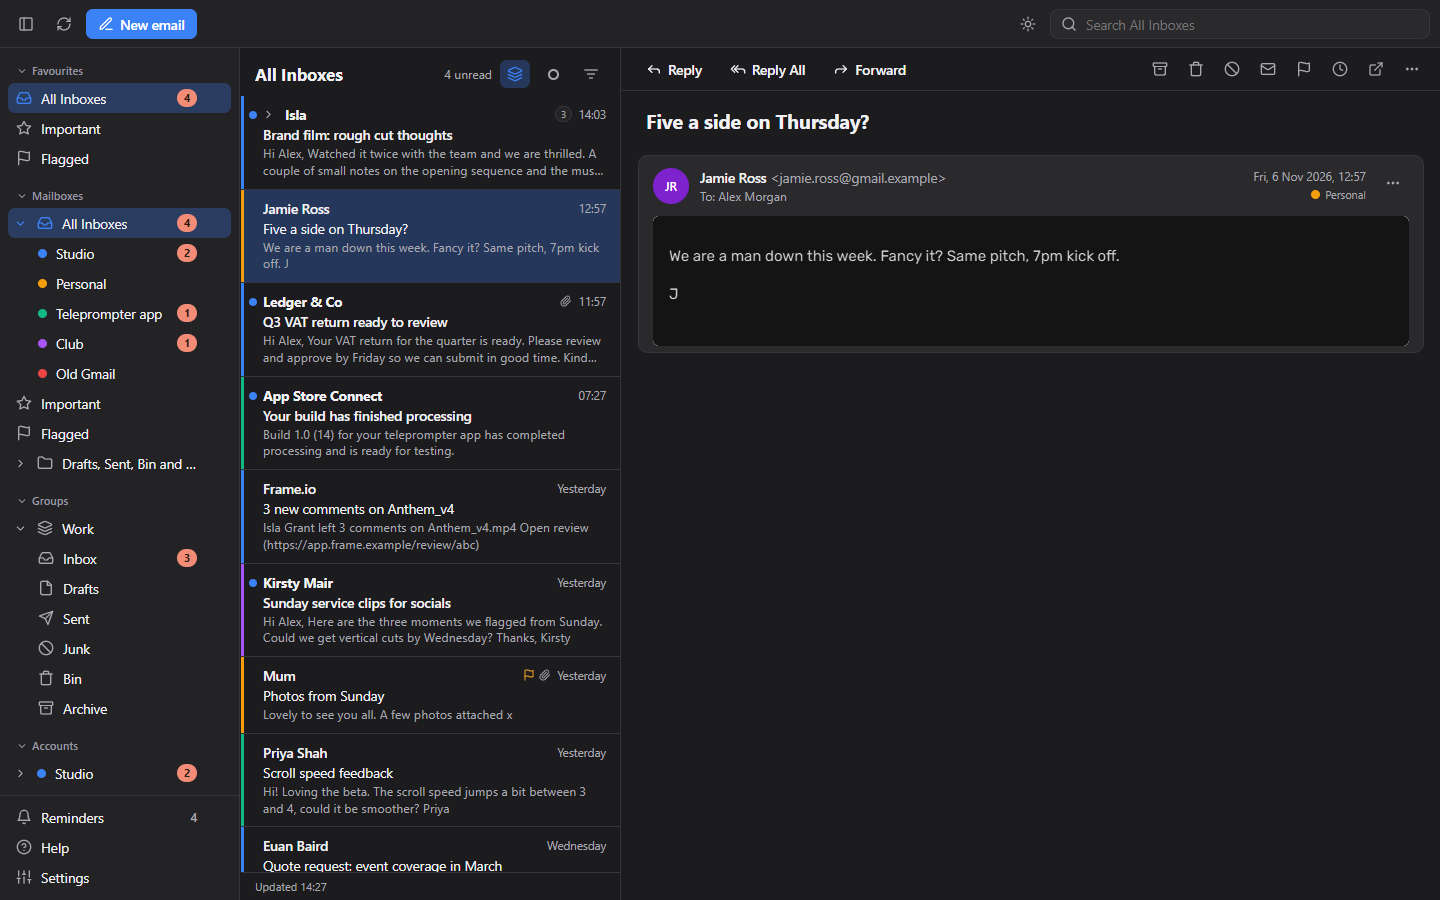
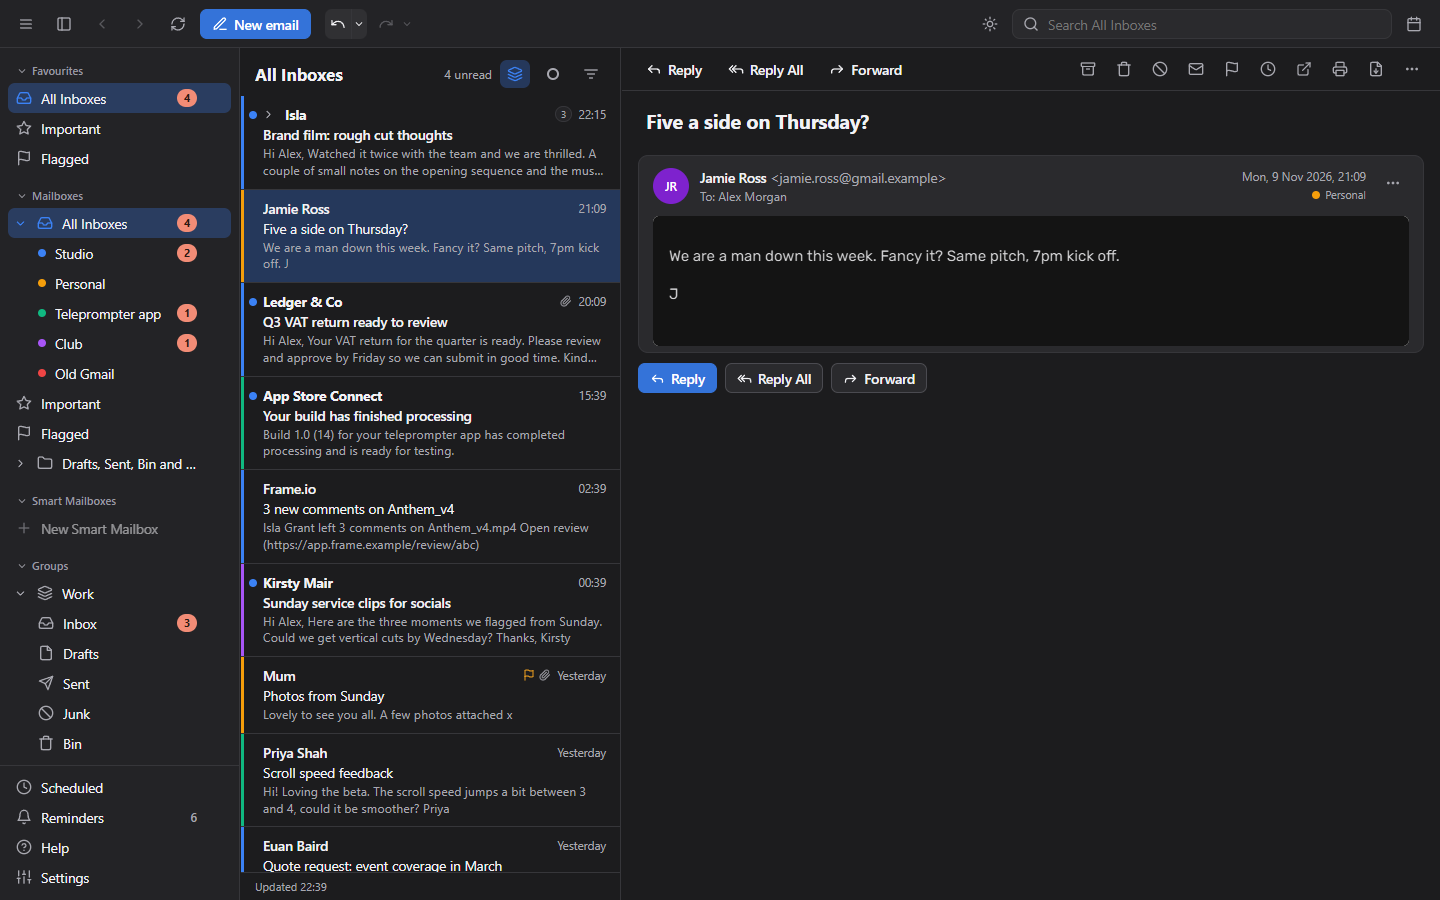
Well Good Mail 0.7.0
The AI Connection (Claude and other AI apps, only as far as you allow), AI Drafts, Smart Mailboxes, Send later with a Scheduled place (sends even with the app closed), undo for almost everything, a signature menu, Back and Forward, and a faster start and faster archive, delete, flag and read marks. What's new, Help and README updated, with fresh demo screenshots.

diff --git a/src/lib/mail.ts b/src/lib/mail.ts
@@ -82,6 +82,8 @@ interface MailState {
   backStack: Place[];
   /** Conversations just archived, deleted or moved: hidden from the list at once, before the full update runs. */
   goingKeys: string[];
+  /** Conversations just flagged or marked read or unread: shown that way at once, before the full update runs. */
+  lookKeys: Record<string, { unread?: boolean; flagged?: boolean }>;
   /** Places you went back from, for Forward. Cleared when you go somewhere new. */
   forwardStack: Place[];
   online: boolean;
@@ -132,6 +134,7 @@ export const useMail = create<MailState>(() => ({
   settingsTab: 'accounts',
   backStack: [],
   goingKeys: [],
+  lookKeys: {},
   forwardStack: [],
   online: typeof navigator === 'undefined' ? true : navigator.onLine,
   filters: NO_FILTERS,
@@ -889,12 +892,16 @@ function describeIds(ids: string[]): string {
 
 /** Marking as unread is recorded so it can be undone; marking as read happens by itself when you open an email, so it isn't. */
 export async function markRead(ids: string[], read = true, opts: { silent?: boolean } = {}) {
-  if (read) await modify(ids.filter((id) => get().messages[id]?.unread), none, () => ['UNREAD']);
+  const changing = read ? ids.filter((id) => get().messages[id]?.unread) : ids;
+  if (!changing.length) return;
+  const settle = await lookFirst(changing, { unread: !read });
+  if (read) await modify(changing, none, () => ['UNREAD']);
   else {
     const was = ids.filter((id) => !get().messages[id]?.unread);
     await modify(ids, () => ['UNREAD'], none);
     if (!opts.silent && was.length) record(`Mark as unread: ${describeIds(ids)}`, () => markRead(was, true, { silent: true }), () => markRead(ids, false, { silent: true }));
   }
+  settle();
 }
 
 export async function toggleFlag(ids: string[]) {
@@ -903,8 +910,10 @@ export async function toggleFlag(ids: string[]) {
   const on = () => modify(ids, flagId, none);
   const off = () => modify(ids, none, flagId);
   const before = new Map(ids.map((id) => [id, get().messages[id]?.flagged]));
+  const settle = await lookFirst(ids, { flagged: anyUnflagged });
   if (anyUnflagged) await on();
   else await off();
+  settle();
   const restore = async () => {
     // Put each email back as it was, not just flip them all.
     const was = ids.filter((id) => before.get(id));
@@ -912,7 +921,7 @@ export async function toggleFlag(ids: string[]) {
     if (was.length) await modify(was, flagId, none);
     if (wasNot.length) await modify(wasNot, none, flagId);
   };
-  record(`${anyUnflagged ? 'Star' : 'Remove star'}: ${describeIds(ids)}`, restore, anyUnflagged ? on : off);
+  record(`${anyUnflagged ? 'Flag' : 'Remove flag'}: ${describeIds(ids)}`, restore, anyUnflagged ? on : off);
 }
 
 /**
@@ -932,6 +941,21 @@ async function leaveScreenFirst(ids: string[]) {
   });
 }
 const clearGoing = () => { if (get().goingKeys.length) set({ goingKeys: [] }); };
+
+/** Shows a flag or read mark on the list at once, then lets the full update run after the screen has redrawn. */
+async function lookFirst(ids: string[], look: { unread?: boolean; flagged?: boolean }) {
+  const msgs = get().messages;
+  const keys = [...new Set(ids.map((id) => msgs[id]).filter(Boolean).map((m) => threadKey(m)))];
+  if (!keys.length) return () => undefined;
+  set({ lookKeys: { ...get().lookKeys, ...Object.fromEntries(keys.map((k) => [k, { ...get().lookKeys[k], ...look }])) } });
+  await new Promise<void>((r) => {
+    let done = false;
+    const go = () => { if (!done) { done = true; r(); } };
+    requestAnimationFrame(() => setTimeout(go, 0));
+    setTimeout(go, 120);
+  });
+  return () => { const next = { ...get().lookKeys }; keys.forEach((k) => delete next[k]); set({ lookKeys: next }); };
+}
 
 function afterRemoveFromView() {
   set({ selectedKey: undefined, selectedKeys: [], inlineDraftId: undefined });

diff --git a/src/components/MessageList.tsx b/src/components/MessageList.tsx
@@ -17,7 +17,13 @@ export function MessageList({ style }: { style: React.CSSProperties }) {
   const { items: listed, remote } = useViewList();
   // Just archived or deleted: gone from the list at once, while the rest catches up.
   const going = useMail((s) => s.goingKeys);
-  const items = useMemo(() => (going.length ? listed.filter((i) => !going.includes(threadKey(i.message))) : listed), [listed, going]);
+  // Just flagged or marked read or unread: shown that way at once.
+  const looks = useMail((s) => s.lookKeys);
+  const items = useMemo(() => {
+    const kept = going.length ? listed.filter((i) => !going.includes(threadKey(i.message))) : listed;
+    if (!Object.keys(looks).length) return kept;
+    return kept.map((i) => { const l = looks[threadKey(i.message)]; return l ? { ...i, unread: l.unread ?? i.unread, flagged: l.flagged ?? i.flagged } : i; });
+  }, [listed, going, looks]);
   const view = useMail((s) => s.view);
   const accounts = useMail((s) => s.accounts);
   const folders = useMail((s) => s.folders);

diff --git a/docs/backlog.md b/docs/backlog.md
@@ -2,11 +2,19 @@
 
 Things noted but not built yet. Newest first. Nothing here is promised for a date.
 
+## After 0.7.0
+
+- **Speed, still to look at** (from testing beta 14, 9 Nov): archive and delete are now instant; flag and read marks got the same treatment in 0.7.0 (check it). Clicks just after opening the app can still lag while older mail and the search index load and photos arrive; consider loading those even more gently. Check again with real use.
+
 ## For the next 0.7 beta
 
 - **Out of office per account** (see below). Needs each Google and Microsoft account to sign in once more, so not started until Todd says.
 - **Appearance layout pass** (9 Nov): a lot of colour dots (theme, account colours, display, unread counts). Not a problem; tidy when there's time.
 - **Before live 0.7.0:** help, What's new and support pages for everything since beta 5; one tidy 0.7.0 release note; decide whether to test a Microsoft draft or say drafting is tested on Gmail.
+
+## Released as 0.7.0 (9 Nov 2026)
+
+Everything below from beta 1 to beta 14, plus flag and read marks showing at once (like archive and delete) and fresh demo screenshots in the README. Beta 14 checks done: archive and delete fast, dark mode B, pop-outs follow light and dark.
 
 ## Done in 0.7 beta 14
 

diff --git a/README.md b/README.md
@@ -12,6 +12,10 @@ These use the built in demo mailbox, so there is no real mail in them.
 
 ![The inbox in light mode](docs/images/inbox-light.png)
 
+![AI Drafts, with a draft open to check and change before sending](docs/images/ai-drafts.png)
+
+![AI Drafts in light mode (the Paper theme)](docs/images/ai-drafts-light.png)
+
 ![The first-run guide that helps you make your own Google key](docs/images/setup-guide.png)
 
 ## What it does
